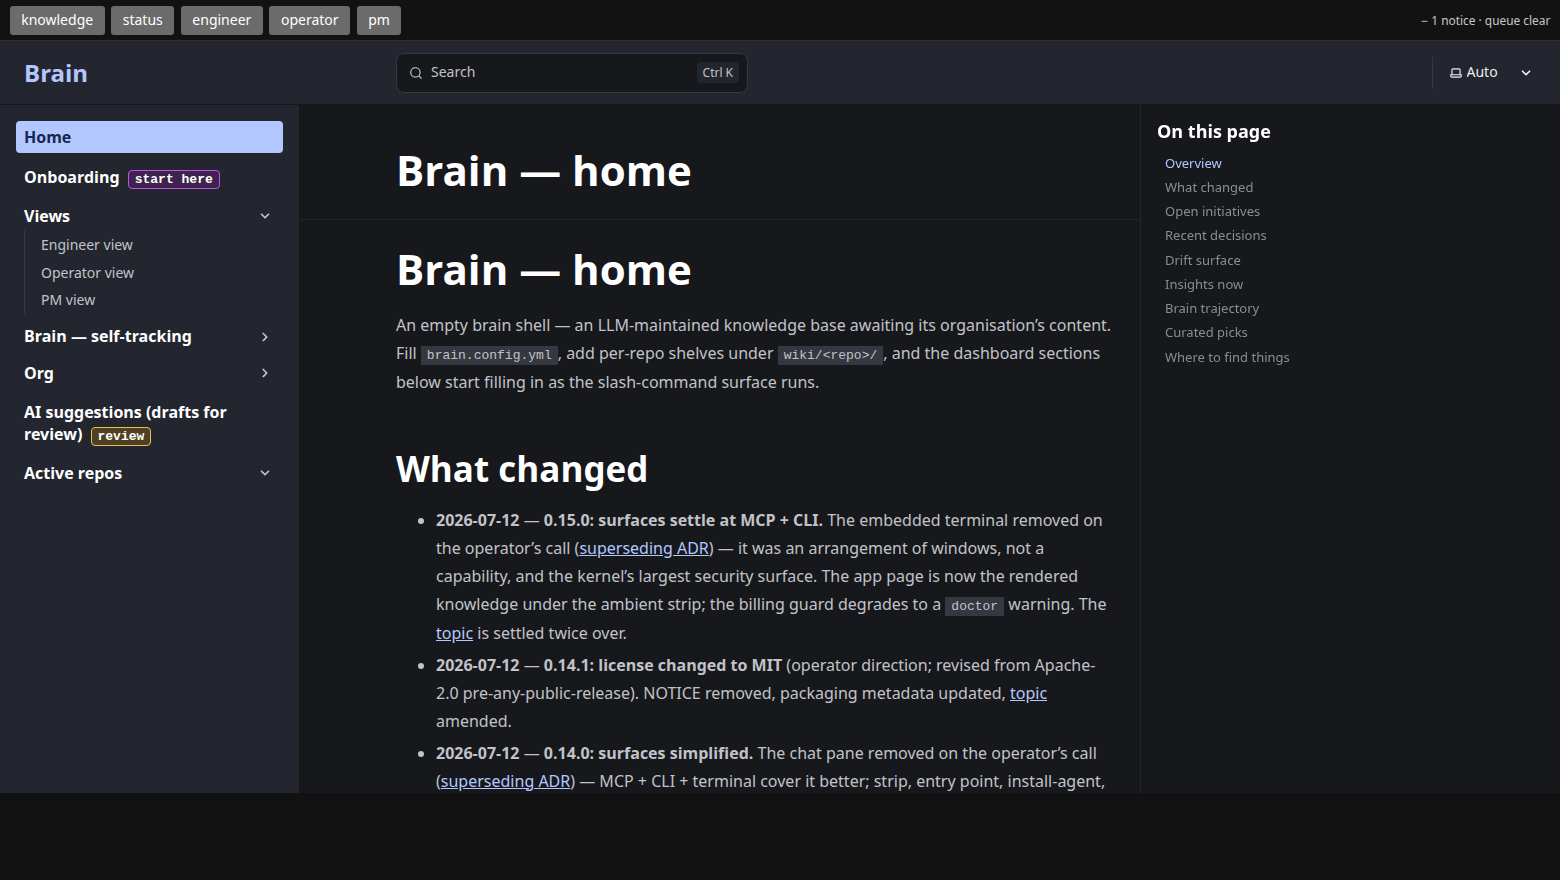
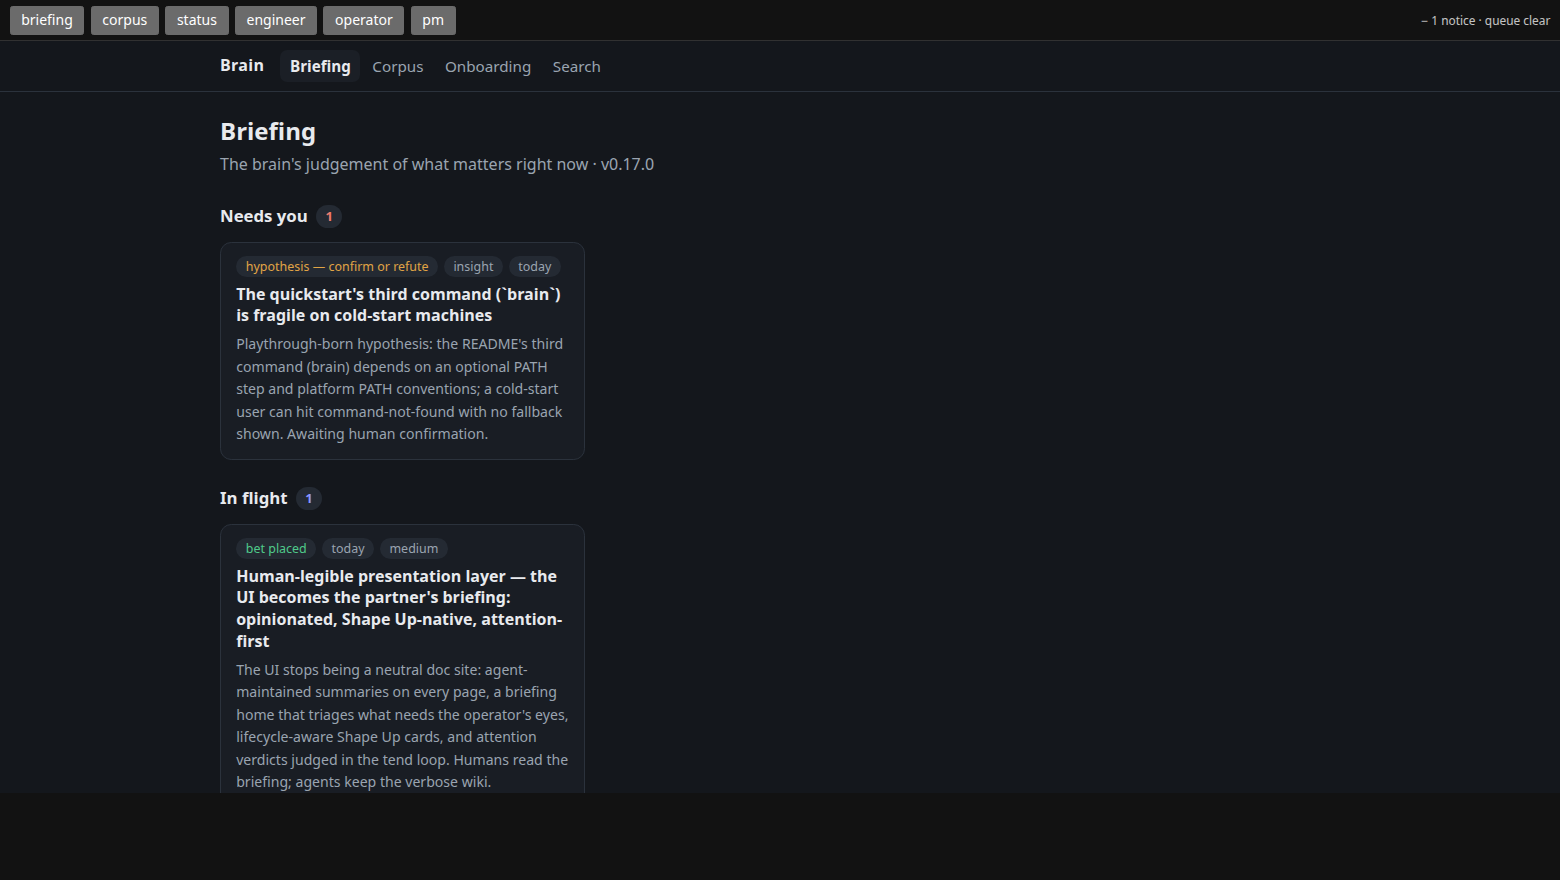
0.17.0 — presentation layer ships: Priya walk + docs + version
Priya playthrough transcript (three findings fixed in-session; the
headless-500px measurement artifact documented for future walks);
README/AGENTS.md/ui-README rewritten for the new app; fresh
screenshot; roadmap/state/home entries; playthrough cursor swept at
0.17.0.

Claude-Session: https://claude.ai/code/session_018u9WC2gNsxuY7c5r2swnP8

diff --git a/sources/playthroughs/2026-07-12--priya-non-terminal-pm--briefing-first-read.md b/sources/playthroughs/2026-07-12--priya-non-terminal-pm--briefing-first-read.md
@@ -1,0 +1,81 @@
+---
+persona: .claude/personas/users/priya-non-terminal-pm.md
+scenario: first read of the rewritten UI — briefing, decision trace, views
+version: 0.17.0
+date: 2026-07-12
+executed_by: claude (fable 5)
+---
+
+# Playthrough — Priya reads the new UI (presentation-layer rewrite)
+
+Run in the rewrite's shipping session, against the live local build
+(real fetches + headless-Chrome screenshots at 1560px and narrow
+widths).
+
+## Step 1 — the briefing (/)
+
+Renders three bands + orientation. In character: "I know in five
+seconds that one hypothesis needs confirmation, one bet is in
+flight, and three discussions are open — with a one-line why on
+every card. This is the meeting brief I used to assemble by hand."
+
+**Finding A (grooming, fixed in-session).** The In-flight band's
+first render showed **six** bets in flight — five of them shipped
+initiatives (0.5–0.16) whose PRDs were never flipped to
+`superseded` per the shipped-PRD convention. The opinionated
+surface exposed the stale statuses within a minute of existing;
+all five superseded to `brain/state.md`. Exactly the class of
+Now-vs-Perceived gap the briefing exists to surface.
+
+## Step 2 — decision trace
+
+`/brain/adrs/workbench-pty-bridge/`: chips (decision · superseded ·
+confidence · updated), the superseded banner linking to the
+successor, the executive summary as a lead. In character: "I can
+cite this in a meeting without reading it, and I can't mistake it
+for current policy — the banner does the work."
+
+**Finding B (defect, fixed in-session).** The page body's own `# H1`
+rendered under the chrome's title — a duplicate heading on every
+page (the retired theme used to strip it). Fixed in the renderer.
+
+**Finding C (defect, fixed in-session).** `/search/` returned the
+JSON API's `{"error": "missing q"}` — a route collision between the
+API's `/search?q=` and the UI's search page. The API now claims the
+path only when `?q=` is present.
+
+## Step 3 — narrow screens
+
+At the narrowest viewport headless Chrome honours, the layout is
+single-column, nav wraps, nothing overflows.
+
+**Measurement note for future playthroughs:** headless Chrome
+floors the layout viewport at **500px** (`innerWidth=500` at
+`--window-size=390`) and crops the screenshot — which first
+presented as a phantom mobile-overflow bug and consumed a
+fix-and-reshoot cycle before a probe page exposed it. Sub-500px
+checks need real device emulation, not `--window-size`.
+
+## Not verifiable this walk
+
+The ai-suggestion banner and the briefing's AI-draft cards ship in
+code but no `ai-suggestions/` page exists in the corpus to render —
+untested against live content. First real suggestion exercises it.
+
+## Give-up verdict (in character)
+
+"Nothing here made me want to leave. The one thing I'd watch: the
+Needs-you band mixes verdict cards (from connector judgement) with
+gate cards (bets, hypotheses) — fine at this volume, but if both
+grow, I'd want the interrupts visually louder than the standing
+gates."
+
+## Disposition
+
+- Finding A — grooming applied in-session (five PRDs superseded);
+  transcript-only.
+- Findings B, C — fixed in-session; transcript-only.
+- Measurement note — transcript-only (playthrough craft, not
+  product).
+- Band-mixing observation — below the decision threshold at
+  current volume; stays here.

diff --git a/AGENTS.md b/AGENTS.md
@@ -462,7 +462,7 @@ brain/
 ├── wiki/               # synthesis layer
 ├── log/                # operations log
 ├── tools/              # brain.py CLI, sync, hooks, templates
-└── ui/                 # Astro 5 + Starlight + Pagefind (src/content/docs symlinked to ../wiki)
+└── ui/                 # purpose-built Astro app: briefing + corpus + Pagefind (src/content/docs symlinked to ../wiki)
 ```
 
 ## The three levels — brain, org, repo
@@ -1291,14 +1291,22 @@ Lets sibling-repo agents and operator shells call `brain
 
 ## Browseable UI
 
-A production UI lives at `ui/` — Astro 5 + Starlight 0.30 + Pagefind
-with `src/content/docs` symlinked to `../../../wiki`. Build details
-(`npm install`, `npm run build`) are in `ui/README.md`. **Local-first**
-— sharing happens via the repo paths in `wiki/`, not a hosted URL.
-Mobile-native is a non-negotiable rule for any UI iteration.
+A production UI lives at `ui/` — a purpose-built Astro 5 app (per
+`wiki/brain/adrs/human-legible-presentation-layer.md`) with
+`src/content/docs` symlinked to `../../../wiki`. The root is the
+**briefing**: three judgement bands (Needs you — attention verdicts,
+pitches awaiting a bet, unconfirmed insights, AI drafts; In flight —
+living post-bet work; On the table — open topics and ideas) over a
+were/are/going orientation strip. Wiki pages render at their
+existing paths with lifecycle chrome (kind/status/confidence/
+appetite chips, the `summary:` lead, ai-suggestion and superseded
+banners); the wiki home renders at `/home/`; Pagefind search at
+`/search/`. Build: `npm run build` (Astro + Pagefind; details in
+`ui/README.md`). **Local-first** — sharing happens via the repo
+paths in `wiki/`, not a hosted URL. Mobile-native is a
+non-negotiable rule for any UI iteration.
 
 An onboarding deck at `/onboarding/` (rendered by
-`ui/src/pages/onboarding.astro`, outside Starlight's docs collection)
-walks colleagues new to the brain through the three missions, three
-layers, three levels, governance, and slash-command surface in ~10
-minutes.
+`ui/src/pages/onboarding.astro`) walks colleagues new to the brain
+through the three missions, three layers, three levels, governance,
+and slash-command surface in ~10 minutes.

diff --git a/ui/README.md b/ui/README.md
@@ -1,24 +1,31 @@
-# ui — Astro + Starlight over brain/wiki
+# ui — the purpose-built Astro app over brain/wiki
 
 The production UI layer for the brain. Lives inside the brain repo
 at `ui/`, sibling to `wiki/`, `tools/`, `sources/`, and `log/`.
 
-Astro 5 + Starlight 0.30 + Pagefind, all npm-installed (no
-vendoring). Renders `wiki/` directly via the `src/content/docs`
-symlink. The home page (`wiki/index.md`) is an agent-maintained
-dashboard — see
-[`wiki/brain/adrs/home-content-shape.md`](../wiki/brain/adrs/home-content-shape.md).
+Astro 5 + Pagefind, all npm-installed (no vendoring, no theme — per
+[`wiki/brain/adrs/human-legible-presentation-layer.md`](../wiki/brain/adrs/human-legible-presentation-layer.md)).
+Renders `wiki/` directly via the `src/content/docs` symlink. The
+app root is the **briefing** (`src/pages/index.astro`) — judgement
+bands + orientation derived at build time from `pages.json`, the
+inbox, and `state.md`; wiki pages render at their existing paths
+via `src/pages/[...slug].astro` with lifecycle chrome; the wiki
+home (`wiki/index.md`) renders at `/home/`.
 
 ## Layout
 
 ```
 ui/
 ├── src/
-│   ├── content.config.ts            (extends Starlight's docsSchema with brain frontmatter)
+│   ├── content.config.ts            (glob collection + brain frontmatter schema)
+│   ├── layouts/App.astro            (app shell: header/nav/theme)
+│   ├── components/Card.astro        (lifecycle-aware card)
+│   ├── lib/data.mjs                 (build-time readers: inbox, state sections, VERSION)
+│   ├── pages/                       (index=briefing, [...slug]=wiki pages, search, 404, onboarding)
 │   └── content/
 │       └── docs           -> ../../../wiki   (symlink, tracked)
-├── astro.config.mjs                 (Starlight integration; default outDir ./dist)
-├── package.json                     (astro, @astrojs/starlight, pagefind, github-slugger)
+├── astro.config.mjs                 (no integrations; remark link rewriting)
+├── package.json                     (astro, pagefind, github-slugger)
 ├── package-lock.json
 ├── tsconfig.json                    (extends astro/tsconfigs/strict)
 ├── Dockerfile
@@ -27,7 +34,7 @@ ui/
 └── README.md                        (this file)
 ```
 
-The `src/content/docs` symlink lets Starlight read the brain corpus
+The `src/content/docs` symlink lets the app read the brain corpus
 without copying. Edit pages in `wiki/`; rebuild here.
 
 ## Build

diff --git a/CHANGELOG.md b/CHANGELOG.md
@@ -4,6 +4,23 @@ All notable changes to the brain kernel. Versions correspond to
 shipped roadmap slices (`wiki/brain/roadmap.md` holds the full
 narrative; the ADR shelf holds the decisions).
 
+## 0.17.0 — 2026-07-12
+- Human-legible presentation layer (pitch → PRD → ADR → build, one
+  bet, corrected mid-shaping to a full rewrite): Starlight retired;
+  ui/ is a purpose-built Astro app. Root = the briefing (Needs you /
+  In flight / On the table + were/are/going orientation, guiding
+  empty states); wiki pages keep their URLs and gain lifecycle
+  chrome (chips, summary lead, AI-draft + superseded banners);
+  Pagefind search at /search/. Build ~30s → ~2s.
+- `summary:` frontmatter in the schema (validated; authored across
+  37 card-kind pages; exported via pages.json); groom checks drift.
+- Attention judgement: `inbox judge` (needs-operator/fyi/routine +
+  one-line reason, in-session only) and `inbox grade`
+  (useful/noise calibration at wiki/_state/attention-grades.json);
+  tend judges external signal, routine-by-default.
+- JSON /search API claims its path only with ?q= (route collision
+  with the UI search page); shipped PRDs groomed to superseded.
+
 ## 0.16.0 — 2026-07-12
 - Persona playthrough loop (pitch → PRD → ADR → build, one bet):
   four brain-as-product user personas, the `/playthrough` skill

diff --git a/wiki/brain/roadmap.md b/wiki/brain/roadmap.md
@@ -361,6 +361,23 @@ sweep per shipped release. The first dogfood walk paid for the
 mechanism immediately — two cold-start defects fixed in-session,
 one hypothesis routed to the insights shelf.
 
+## 0.17.0 — human-legible presentation layer — **shipped 2026-07-12**
+
+The operator's bet, corrected mid-shaping to a complete UI rewrite
+([pitch](pitches/human-legible-presentation-layer.md) →
+[PRD](prds/human-legible-presentation-layer.md) →
+[ADR](adrs/human-legible-presentation-layer.md)): Starlight retired;
+`ui/` is a purpose-built Astro app whose root is the briefing —
+Needs you / In flight / On the table over a were/are/going
+orientation strip. `summary:` in the schema (authored across 37
+card pages), lifecycle chrome on every page, `inbox judge`/`grade`
+for in-session attention verdicts with operator calibration, and
+Pagefind search. Build time fell ~30s → ~2s. The Priya playthrough
+in the shipping session caught a route collision, a duplicate-H1
+defect, and five shipped PRDs still claiming in-flight — the
+opinionated surface doing its job on day one. Within-appetite
+follow-ups: trail timeline, link-graph visual.
+
 ## Standing ideas (unversioned)
 
 Deliberately not adopted from the open-knowledge direction: a vector

diff --git a/README.md b/README.md
@@ -74,7 +74,8 @@ The **kernel** — mechanism, no content:
   `/rfc`, `/pr`, `/review`, `/spawn`, `/rebase`, …) as skills, plus
   the three agent personas (PM / Tech Lead / Developer) that drive
   Shape Up.
-- **`ui/`** — Astro 5 + Starlight + Pagefind browse surface with an
+- **`ui/`** — the purpose-built Astro app: the briefing (opinionated
+  home), lifecycle-aware page rendering, Pagefind search, and an
   onboarding deck at `/onboarding/`.
 - **`.github/workflows/`** — the validate gates and the daily
   scheduled-operations runner.
@@ -136,7 +137,7 @@ sources/            # raw, immutable inputs (additive only)
 wiki/               # synthesis layer — per-repo + org + brain-meta
 log/                # append-only operations log (log.md)
 tools/              # brain.py CLI, sync-siblings, hooks, templates
-ui/                 # Astro 5 + Starlight + Pagefind — src/content/docs symlinks ../../wiki
+ui/                 # purpose-built Astro app (briefing + corpus + search) — src/content/docs symlinks ../wiki
 tests/              # kernel invariant tests (pytest)
 ```
 
@@ -252,6 +253,10 @@ npm run build                       # production build
 npm run dev                         # local dev server
 ```
 
-`ui/src/content/docs` symlinks to `../wiki`, so the wiki renders as a
-Starlight site with Pagefind search. Local-first — share via repo
-paths, not a hosted URL.
+`ui/src/content/docs` symlinks to `../wiki`. The app's root is the
+**briefing** — the brain's judgement of what needs you, what's in
+flight, and what's on the table — and every wiki page renders inside
+the app with lifecycle chrome (kind/status/confidence chips,
+executive summary, AI-draft and superseded banners). Pagefind search
+at `/search/`. Local-first — share via repo paths, not a hosted
+URL.

diff --git a/wiki/index.md b/wiki/index.md
@@ -18,6 +18,16 @@ start filling in as the slash-command surface runs.
 ## What changed
 
 <!-- home-section; maintained-by: /shape -->
+- **2026-07-12** — **0.17.0: the briefing is the UI.** The
+  presentation-layer bet shipped as a complete UI rewrite
+  ([PRD](brain/prds/human-legible-presentation-layer.md) ·
+  [ADR](brain/adrs/human-legible-presentation-layer.md)): the app's
+  root is now the brain's judgement — Needs you / In flight / On
+  the table + orientation — with executive summaries in the schema,
+  lifecycle chrome on every page, and attention verdicts
+  (`inbox judge`/`grade`) from the tend loop. The Priya playthrough
+  caught three defects in-session, including five shipped PRDs
+  still claiming in-flight.
 - **2026-07-12** — **pitch on the table: human-legible presentation
   layer.** Big appetite, awaiting the operator's bet
   ([pitch](brain/pitches/human-legible-presentation-layer.md)):

diff --git a/wiki/brain/state.md b/wiki/brain/state.md
@@ -26,6 +26,14 @@ into the sections below.
 
 ## Now
 
+- **The briefing is the UI (0.17.0, 2026-07-12).** Complete UI
+  rewrite on the operator's bet: Starlight out, purpose-built Astro
+  app in — the root is the partner's briefing (attention verdicts,
+  bets, discussions, orientation), pages carry lifecycle chrome and
+  executive summaries, and the tend loop judges connector signal
+  (`inbox judge`/`grade`, routine-by-default). Follow-ups within
+  appetite: trail timeline, link-graph visual.
+
 - **The playthrough loop is live (0.16.0, 2026-07-12).** Synthetic
   users walk every release: personas in
   `.claude/personas/users/`, `/playthrough` protocol, transcripts

diff --git a/wiki/_views/custom/engineer.md b/wiki/_views/custom/engineer.md
@@ -46,8 +46,8 @@ What changed in the decision trail, what the brain wants deepened, and the produ
 | org/operator-lessons.md | high | 4 |
 | brain/adrs/connector-snapshot-contract.md | medium | 3 |
 | brain/adrs/home-content-shape.md | medium | 3 |
+| brain/adrs/human-legible-presentation-layer.md | medium | 3 |
 | brain/adrs/operator-lesson-pattern.md | medium | 3 |
-| brain/adrs/parallel-efforts-on-request.md | medium | 3 |
 
 ## Production state (Datadog)
 